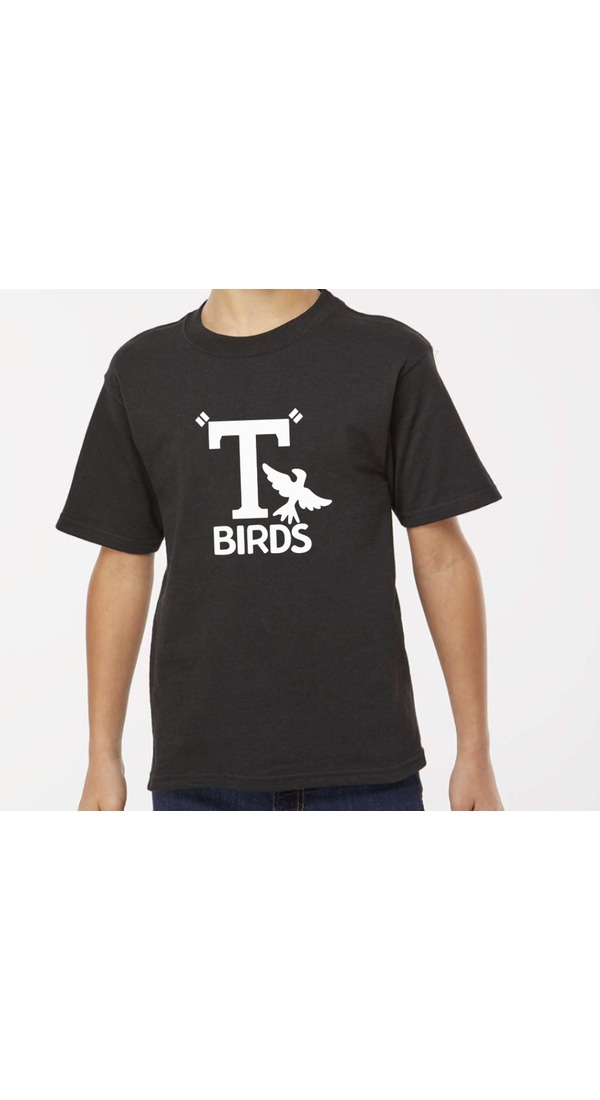
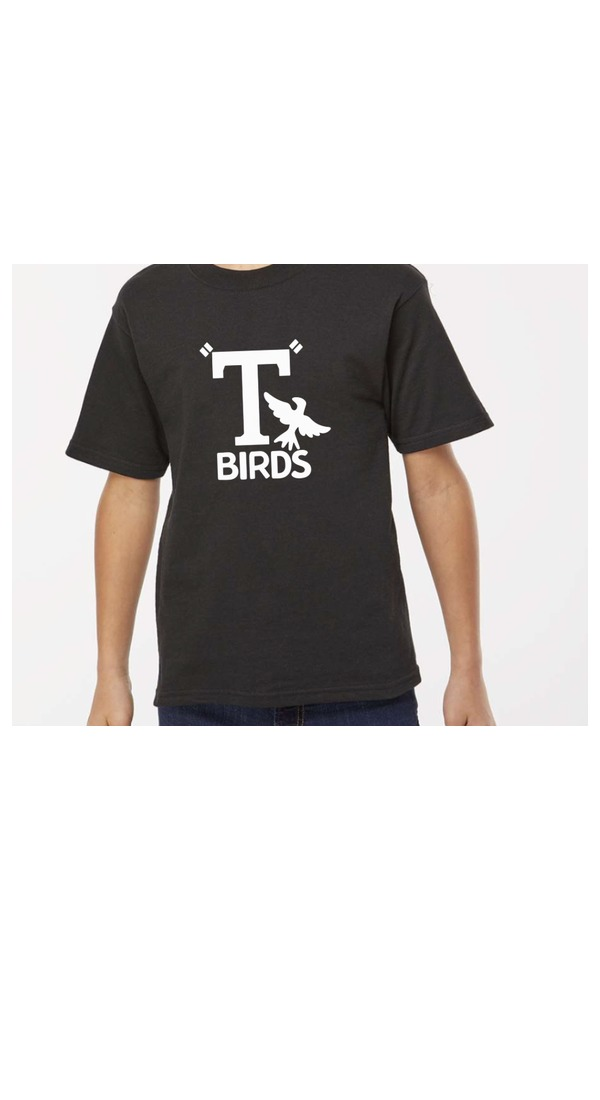
Kindergarten 50: remove Garage Tee, no-faces fix on T-Birds, faux-texture blurbs
- Remove the Garage Tee product entirely (Anne didn't like it) and delete
  its now-unused image files.
- Crop the child's face out of the T-Birds Tee front photo, matching the
  no-faces framing used across the rest of the catalog.
- Rewrite all remaining product blurbs to call out the faux-texture look of
  each print (faux chenille, faux wool letterman, faux leather, faux
  embroidery, faux sequin, faux screen-print, etc.) instead of generic
  "look" wording, and fix a couple of blurbs that still referenced the
  wrong material entirely.
- Bump SITE_BUILD_ID to kinder50-catalog-v7.

Changed region(s): [[0.09, 0.2164, 0.84, 0.7418], [0.24, 0.34, 0.27, 0.4018]]

diff --git a/index.html b/index.html
@@ -1267,7 +1267,7 @@ const NV_SALES_TAX_RATE = 0.08375;
 // date: reload once to pick up the new one, and if it is still stale after that,
 // refuse to render the checkout buttons rather than take a wrong-amount payment.
 // Bump SITE_BUILD_ID and version.json together on every deploy that changes money.
-const SITE_BUILD_ID = '2026-10-04-kinder50-catalog-v6';
+const SITE_BUILD_ID = '2026-10-04-kinder50-catalog-v7';
 let siteBuildStale = false;
 
 function showStaleNotice(){
@@ -2436,19 +2436,18 @@ refreshWolvesButtersoftCustomizer();
 const KINDER50_SIZES = ["YXS","YS","YM"];
 const KINDER50_CUSTOM_PRICE = 5;
 const KINDER50_PRODUCTS = [
-  { key:'k50-tbirds', price:25, name:'T-Birds Tee (Front Only)', img:'images/kinder50/tbirds.jpg', color:'Black', blurb:"Distressed T-Birds swallow logo — printed on a Black blank. Front only, no back design." },
-  { key:'k50-tbirds-jacket', price:30, name:'T-Birds Leather Jacket Tee', img:'images/kinder50/tbirds-jacket.jpg', imgBack:'images/kinder50/tbirds-jacket-back.jpg', color:'Black', blurb:"Varsity bomber jacket look with the T-Birds logo — printed on a Black blank." },
-  { key:'k50-sandy', price:30, name:'Sandy & Pink Ladies Tee', img:'images/kinder50/sandy.jpg', imgBack:'images/kinder50/pink-ladies-back.jpg', color:'Pink', blurb:"“Sandy” polka-dot bandana collar graphic on the front, “Pink Ladies” script on the back — printed on a Pink blank.", customizable:true, customPlacement:'child\'s name in place of “Sandy” on the front' },
-  { key:'k50-ro-collar', price:30, name:'Rydell Cheer Tee', img:'images/kinder50/ro-collar.jpg', imgBack:'images/kinder50/rydell-back.jpg', color:'White', blurb:"Collared tee with a megaphone “R” graphic on the front, arched “Rydell” script on the back — printed on a White blank." },
-  { key:'k50-pinstripe', price:30, name:'Blue 50s Varsity Sweater', img:'images/kinder50/pinstripe-fiftydays.jpg', imgBack:'images/kinder50/pinstripe-fiftydays-back.jpg', color:'Navy', blurb:"Varsity cardigan tee look with a bold gold “50” across the chest and a striped ribbed waistband — printed on a Navy blank.", customizable:true, customPlacement:'small script name on the back' },
-  { key:'k50-pinstripe-red', price:30, name:'Red 50s Varsity Sweater', img:'images/kinder50/pinstripe-red.jpg', imgBack:'images/kinder50/pinstripe-red-back.jpg', color:'Red', blurb:"Varsity cardigan tee look with gold “K” and “50” patches and a striped ribbed waistband — printed on a Red blank.", customizable:true, customPlacement:'small script name on the back' },
-  { key:'k50-baseball-50', price:30, name:'Baseball Jersey Tee', img:'images/kinder50/baseball-50.jpg', imgBack:'images/kinder50/baseball-50-back.jpg', color:'Natural', blurb:"Pinstripe baseball jersey with a bold “50” on the back — printed on a Natural blank.", customizable:true, customPlacement:'small script name on the back' },
-  { key:'k50-baseball-peaches', price:30, name:'“Peaches” Baseball Tee', img:'images/kinder50/baseball-peaches.jpg', imgBack:'images/kinder50/baseball-peaches-back.jpg', color:'Cream', blurb:"A League of Their Own-inspired “Peaches” baseball look — printed on a Cream blank.", customizable:true, customPlacement:'small script name on the back' },
-  { key:'k50-garage', price:30, name:'Garage Tee', img:'images/kinder50/garage-champ.jpg', imgBack:'images/kinder50/garage-back.jpg', color:'Carbon', blurb:"Mechanic-shop look, “BRUH” front patch (or customize it with your own name) and a “50th Day Garage” hot-rod back patch — printed on a Carbon blank.", customizable:true, customPlacement:'name patch in place of “BRUH”' },
-  { key:'k50-bowling', price:30, name:'Bowling Night Tee', img:'images/kinder50/bowling.jpg', imgBack:'images/kinder50/bowling-back.jpg', color:'Diving Blue', blurb:"Retro bowling shirt look, “Gutter Greasers” and a slanted “50” on the back — printed on a Diving Blue blank.", customizable:true, customPlacement:'optional nametag on the back' },
-  { key:'k50-diner', price:30, name:'50th Day Diner Tee', img:'images/kinder50/diner.jpg', imgBack:'images/kinder50/diner-back.jpg', color:'White', blurb:"Diner apron and bow-tie look — printed on a White blank.", customizable:true, customPlacement:'small script name on the apron tag' },
-  { key:'k50-poodle-bandana', price:30, name:'Poodle Black Scarf Tee', img:'images/kinder50/poodle-black.jpg', imgBack:'images/kinder50/poodle-black-back.jpg', color:'White', blurb:"50s poodle-skirt look with a black polka-dot bandana collar and a gold “50” — printed on a White blank.", customizable:true, customPlacement:'small name patch below the collar' },
-  { key:'k50-poodle-collar', price:30, name:'Poodle Pink Collar Tee', img:'images/kinder50/poodle-pink.jpg', imgBack:'images/kinder50/poodle-pink-back.jpg', color:'White', blurb:"50s poodle-skirt look with a pink scallop collar and a gold “50” — printed on a White blank.", customizable:true, customPlacement:'small name patch below the collar' }
+  { key:'k50-tbirds', price:25, name:'T-Birds Tee (Front Only)', img:'images/kinder50/tbirds.jpg', color:'Black', blurb:"Faux distressed screen-print T-Birds swallow logo — printed on a Black blank. Front only, no back design." },
+  { key:'k50-tbirds-jacket', price:30, name:'T-Birds Leather Jacket Tee', img:'images/kinder50/tbirds-jacket.jpg', imgBack:'images/kinder50/tbirds-jacket-back.jpg', color:'Black', blurb:"Faux leather motorcycle jacket layered over a white tee on the front, T-Birds swallow logo on the back — printed on a Black blank." },
+  { key:'k50-sandy', price:30, name:'Sandy & Pink Ladies Tee', img:'images/kinder50/sandy.jpg', imgBack:'images/kinder50/pink-ladies-back.jpg', color:'Pink', blurb:"Faux satin polka-dot bandana collar with embroidered-look “Sandy” script on the front, faux embroidered “Pink Ladies” script on the back — printed on a Pink blank.", customizable:true, customPlacement:'child\'s name in place of “Sandy” on the front' },
+  { key:'k50-ro-collar', price:30, name:'Rydell Cheer Tee', img:'images/kinder50/ro-collar.jpg', imgBack:'images/kinder50/rydell-back.jpg', color:'White', blurb:"Faux chenille cheer-squad collar and megaphone “R” patch on the front, arched faux chenille “Rydell” script on the back — printed on a White blank." },
+  { key:'k50-pinstripe', price:30, name:'Blue 50s Varsity Sweater', img:'images/kinder50/pinstripe-fiftydays.jpg', imgBack:'images/kinder50/pinstripe-fiftydays-back.jpg', color:'Navy', blurb:"Faux wool letterman cardigan look with a faux chenille “50” patch across the chest and a ribbed knit waistband — printed on a Navy blank.", customizable:true, customPlacement:'small script name on the back' },
+  { key:'k50-pinstripe-red', price:30, name:'Red 50s Varsity Sweater', img:'images/kinder50/pinstripe-red.jpg', imgBack:'images/kinder50/pinstripe-red-back.jpg', color:'Red', blurb:"Faux wool letterman cardigan look with faux chenille “K” and “50” patches and a ribbed knit waistband — printed on a Red blank.", customizable:true, customPlacement:'small script name on the back' },
+  { key:'k50-baseball-50', price:30, name:'Baseball Jersey Tee', img:'images/kinder50/baseball-50.jpg', imgBack:'images/kinder50/baseball-50-back.jpg', color:'Natural', blurb:"Faux pinstripe baseball jersey print with a script “Fifty Days” front and a bold “50” on the back — printed on a Natural blank.", customizable:true, customPlacement:'small script name on the back' },
+  { key:'k50-baseball-peaches', price:30, name:'“Peaches” Baseball Tee', img:'images/kinder50/baseball-peaches.jpg', imgBack:'images/kinder50/baseball-peaches-back.jpg', color:'Cream', blurb:"Faux vintage pinstripe baseball jersey print, A League of Their Own-inspired “Peaches” look — printed on a Cream blank.", customizable:true, customPlacement:'small script name on the back' },
+  { key:'k50-bowling', price:30, name:'Bowling Night Tee', img:'images/kinder50/bowling.jpg', imgBack:'images/kinder50/bowling-back.jpg', color:'Diving Blue', blurb:"Faux retro bowling-shirt print, “Gutter Greasers” and a slanted “50” on the back — printed on a Diving Blue blank.", customizable:true, customPlacement:'optional nametag on the back' },
+  { key:'k50-diner', price:30, name:'50th Day Diner Tee', img:'images/kinder50/diner.jpg', imgBack:'images/kinder50/diner-back.jpg', color:'White', blurb:"Faux diner-apron print with a bow-tie and a “50th Day Diner” name tag — printed on a White blank.", customizable:true, customPlacement:'small script name on the apron tag' },
+  { key:'k50-poodle-bandana', price:30, name:'Poodle Black Scarf Tee', img:'images/kinder50/poodle-black.jpg', imgBack:'images/kinder50/poodle-black-back.jpg', color:'White', blurb:"Faux sequin poodle appliqué with a glitter-gold “50” and a faux satin polka-dot bandana collar — printed on a White blank.", customizable:true, customPlacement:'small name patch below the collar' },
+  { key:'k50-poodle-collar', price:30, name:'Poodle Pink Collar Tee', img:'images/kinder50/poodle-pink.jpg', imgBack:'images/kinder50/poodle-pink-back.jpg', color:'White', blurb:"Faux sequin poodle appliqué with a glitter-gold “50” and a faux felt scalloped collar with pearl buttons — printed on a White blank.", customizable:true, customPlacement:'small name patch below the collar' }
 ];
 
 buildSizeChart(document.getElementById('kinder50Chart'), YOUTH_MEASUREMENTS);

diff --git a/order.html b/order.html
@@ -1267,7 +1267,7 @@ const NV_SALES_TAX_RATE = 0.08375;
 // date: reload once to pick up the new one, and if it is still stale after that,
 // refuse to render the checkout buttons rather than take a wrong-amount payment.
 // Bump SITE_BUILD_ID and version.json together on every deploy that changes money.
-const SITE_BUILD_ID = '2026-10-04-kinder50-catalog-v6';
+const SITE_BUILD_ID = '2026-10-04-kinder50-catalog-v7';
 let siteBuildStale = false;
 
 function showStaleNotice(){
@@ -2436,19 +2436,18 @@ refreshWolvesButtersoftCustomizer();
 const KINDER50_SIZES = ["YXS","YS","YM"];
 const KINDER50_CUSTOM_PRICE = 5;
 const KINDER50_PRODUCTS = [
-  { key:'k50-tbirds', price:25, name:'T-Birds Tee (Front Only)', img:'images/kinder50/tbirds.jpg', color:'Black', blurb:"Distressed T-Birds swallow logo — printed on a Black blank. Front only, no back design." },
-  { key:'k50-tbirds-jacket', price:30, name:'T-Birds Leather Jacket Tee', img:'images/kinder50/tbirds-jacket.jpg', imgBack:'images/kinder50/tbirds-jacket-back.jpg', color:'Black', blurb:"Varsity bomber jacket look with the T-Birds logo — printed on a Black blank." },
-  { key:'k50-sandy', price:30, name:'Sandy & Pink Ladies Tee', img:'images/kinder50/sandy.jpg', imgBack:'images/kinder50/pink-ladies-back.jpg', color:'Pink', blurb:"“Sandy” polka-dot bandana collar graphic on the front, “Pink Ladies” script on the back — printed on a Pink blank.", customizable:true, customPlacement:'child\'s name in place of “Sandy” on the front' },
-  { key:'k50-ro-collar', price:30, name:'Rydell Cheer Tee', img:'images/kinder50/ro-collar.jpg', imgBack:'images/kinder50/rydell-back.jpg', color:'White', blurb:"Collared tee with a megaphone “R” graphic on the front, arched “Rydell” script on the back — printed on a White blank." },
-  { key:'k50-pinstripe', price:30, name:'Blue 50s Varsity Sweater', img:'images/kinder50/pinstripe-fiftydays.jpg', imgBack:'images/kinder50/pinstripe-fiftydays-back.jpg', color:'Navy', blurb:"Varsity cardigan tee look with a bold gold “50” across the chest and a striped ribbed waistband — printed on a Navy blank.", customizable:true, customPlacement:'small script name on the back' },
-  { key:'k50-pinstripe-red', price:30, name:'Red 50s Varsity Sweater', img:'images/kinder50/pinstripe-red.jpg', imgBack:'images/kinder50/pinstripe-red-back.jpg', color:'Red', blurb:"Varsity cardigan tee look with gold “K” and “50” patches and a striped ribbed waistband — printed on a Red blank.", customizable:true, customPlacement:'small script name on the back' },
-  { key:'k50-baseball-50', price:30, name:'Baseball Jersey Tee', img:'images/kinder50/baseball-50.jpg', imgBack:'images/kinder50/baseball-50-back.jpg', color:'Natural', blurb:"Pinstripe baseball jersey with a bold “50” on the back — printed on a Natural blank.", customizable:true, customPlacement:'small script name on the back' },
-  { key:'k50-baseball-peaches', price:30, name:'“Peaches” Baseball Tee', img:'images/kinder50/baseball-peaches.jpg', imgBack:'images/kinder50/baseball-peaches-back.jpg', color:'Cream', blurb:"A League of Their Own-inspired “Peaches” baseball look — printed on a Cream blank.", customizable:true, customPlacement:'small script name on the back' },
-  { key:'k50-garage', price:30, name:'Garage Tee', img:'images/kinder50/garage-champ.jpg', imgBack:'images/kinder50/garage-back.jpg', color:'Carbon', blurb:"Mechanic-shop look, “BRUH” front patch (or customize it with your own name) and a “50th Day Garage” hot-rod back patch — printed on a Carbon blank.", customizable:true, customPlacement:'name patch in place of “BRUH”' },
-  { key:'k50-bowling', price:30, name:'Bowling Night Tee', img:'images/kinder50/bowling.jpg', imgBack:'images/kinder50/bowling-back.jpg', color:'Diving Blue', blurb:"Retro bowling shirt look, “Gutter Greasers” and a slanted “50” on the back — printed on a Diving Blue blank.", customizable:true, customPlacement:'optional nametag on the back' },
-  { key:'k50-diner', price:30, name:'50th Day Diner Tee', img:'images/kinder50/diner.jpg', imgBack:'images/kinder50/diner-back.jpg', color:'White', blurb:"Diner apron and bow-tie look — printed on a White blank.", customizable:true, customPlacement:'small script name on the apron tag' },
-  { key:'k50-poodle-bandana', price:30, name:'Poodle Black Scarf Tee', img:'images/kinder50/poodle-black.jpg', imgBack:'images/kinder50/poodle-black-back.jpg', color:'White', blurb:"50s poodle-skirt look with a black polka-dot bandana collar and a gold “50” — printed on a White blank.", customizable:true, customPlacement:'small name patch below the collar' },
-  { key:'k50-poodle-collar', price:30, name:'Poodle Pink Collar Tee', img:'images/kinder50/poodle-pink.jpg', imgBack:'images/kinder50/poodle-pink-back.jpg', color:'White', blurb:"50s poodle-skirt look with a pink scallop collar and a gold “50” — printed on a White blank.", customizable:true, customPlacement:'small name patch below the collar' }
+  { key:'k50-tbirds', price:25, name:'T-Birds Tee (Front Only)', img:'images/kinder50/tbirds.jpg', color:'Black', blurb:"Faux distressed screen-print T-Birds swallow logo — printed on a Black blank. Front only, no back design." },
+  { key:'k50-tbirds-jacket', price:30, name:'T-Birds Leather Jacket Tee', img:'images/kinder50/tbirds-jacket.jpg', imgBack:'images/kinder50/tbirds-jacket-back.jpg', color:'Black', blurb:"Faux leather motorcycle jacket layered over a white tee on the front, T-Birds swallow logo on the back — printed on a Black blank." },
+  { key:'k50-sandy', price:30, name:'Sandy & Pink Ladies Tee', img:'images/kinder50/sandy.jpg', imgBack:'images/kinder50/pink-ladies-back.jpg', color:'Pink', blurb:"Faux satin polka-dot bandana collar with embroidered-look “Sandy” script on the front, faux embroidered “Pink Ladies” script on the back — printed on a Pink blank.", customizable:true, customPlacement:'child\'s name in place of “Sandy” on the front' },
+  { key:'k50-ro-collar', price:30, name:'Rydell Cheer Tee', img:'images/kinder50/ro-collar.jpg', imgBack:'images/kinder50/rydell-back.jpg', color:'White', blurb:"Faux chenille cheer-squad collar and megaphone “R” patch on the front, arched faux chenille “Rydell” script on the back — printed on a White blank." },
+  { key:'k50-pinstripe', price:30, name:'Blue 50s Varsity Sweater', img:'images/kinder50/pinstripe-fiftydays.jpg', imgBack:'images/kinder50/pinstripe-fiftydays-back.jpg', color:'Navy', blurb:"Faux wool letterman cardigan look with a faux chenille “50” patch across the chest and a ribbed knit waistband — printed on a Navy blank.", customizable:true, customPlacement:'small script name on the back' },
+  { key:'k50-pinstripe-red', price:30, name:'Red 50s Varsity Sweater', img:'images/kinder50/pinstripe-red.jpg', imgBack:'images/kinder50/pinstripe-red-back.jpg', color:'Red', blurb:"Faux wool letterman cardigan look with faux chenille “K” and “50” patches and a ribbed knit waistband — printed on a Red blank.", customizable:true, customPlacement:'small script name on the back' },
+  { key:'k50-baseball-50', price:30, name:'Baseball Jersey Tee', img:'images/kinder50/baseball-50.jpg', imgBack:'images/kinder50/baseball-50-back.jpg', color:'Natural', blurb:"Faux pinstripe baseball jersey print with a script “Fifty Days” front and a bold “50” on the back — printed on a Natural blank.", customizable:true, customPlacement:'small script name on the back' },
+  { key:'k50-baseball-peaches', price:30, name:'“Peaches” Baseball Tee', img:'images/kinder50/baseball-peaches.jpg', imgBack:'images/kinder50/baseball-peaches-back.jpg', color:'Cream', blurb:"Faux vintage pinstripe baseball jersey print, A League of Their Own-inspired “Peaches” look — printed on a Cream blank.", customizable:true, customPlacement:'small script name on the back' },
+  { key:'k50-bowling', price:30, name:'Bowling Night Tee', img:'images/kinder50/bowling.jpg', imgBack:'images/kinder50/bowling-back.jpg', color:'Diving Blue', blurb:"Faux retro bowling-shirt print, “Gutter Greasers” and a slanted “50” on the back — printed on a Diving Blue blank.", customizable:true, customPlacement:'optional nametag on the back' },
+  { key:'k50-diner', price:30, name:'50th Day Diner Tee', img:'images/kinder50/diner.jpg', imgBack:'images/kinder50/diner-back.jpg', color:'White', blurb:"Faux diner-apron print with a bow-tie and a “50th Day Diner” name tag — printed on a White blank.", customizable:true, customPlacement:'small script name on the apron tag' },
+  { key:'k50-poodle-bandana', price:30, name:'Poodle Black Scarf Tee', img:'images/kinder50/poodle-black.jpg', imgBack:'images/kinder50/poodle-black-back.jpg', color:'White', blurb:"Faux sequin poodle appliqué with a glitter-gold “50” and a faux satin polka-dot bandana collar — printed on a White blank.", customizable:true, customPlacement:'small name patch below the collar' },
+  { key:'k50-poodle-collar', price:30, name:'Poodle Pink Collar Tee', img:'images/kinder50/poodle-pink.jpg', imgBack:'images/kinder50/poodle-pink-back.jpg', color:'White', blurb:"Faux sequin poodle appliqué with a glitter-gold “50” and a faux felt scalloped collar with pearl buttons — printed on a White blank.", customizable:true, customPlacement:'small name patch below the collar' }
 ];
 
 buildSizeChart(document.getElementById('kinder50Chart'), YOUTH_MEASUREMENTS);
